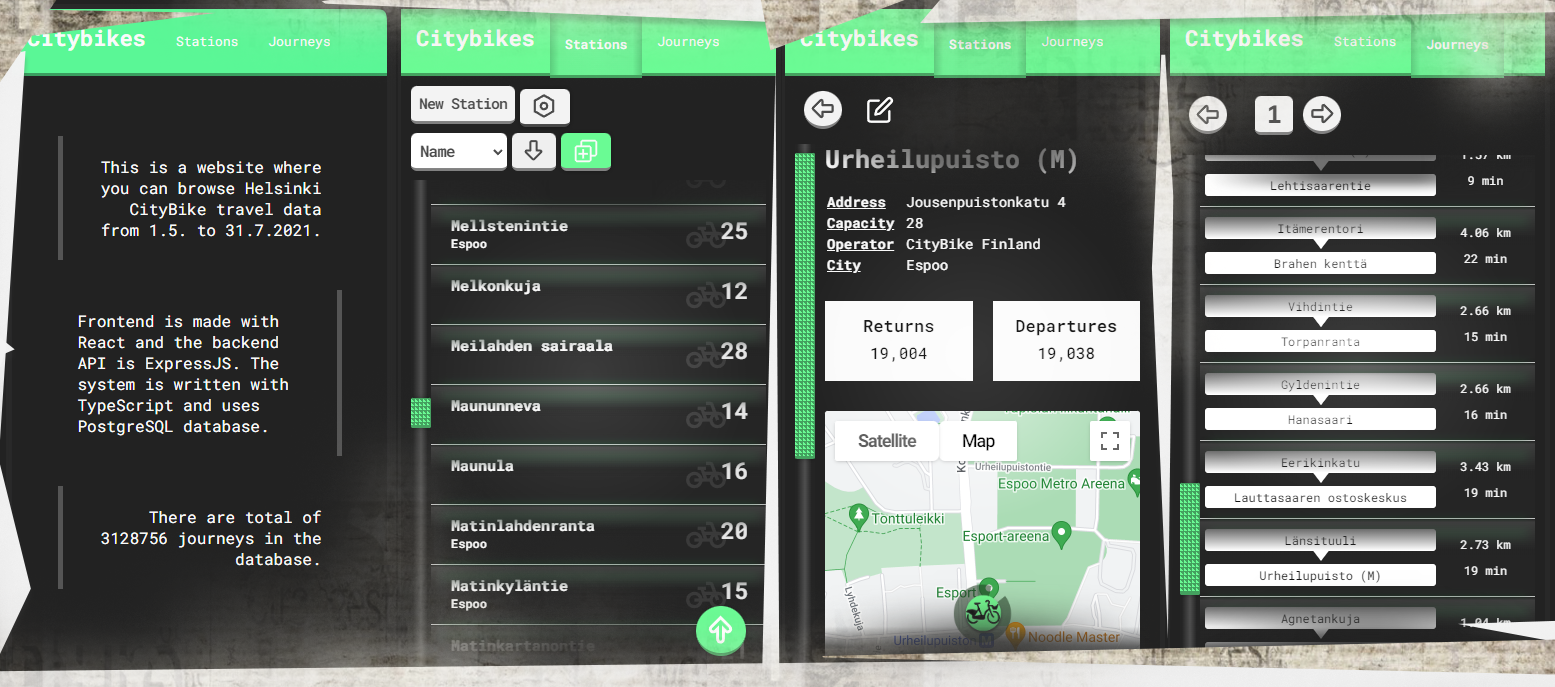
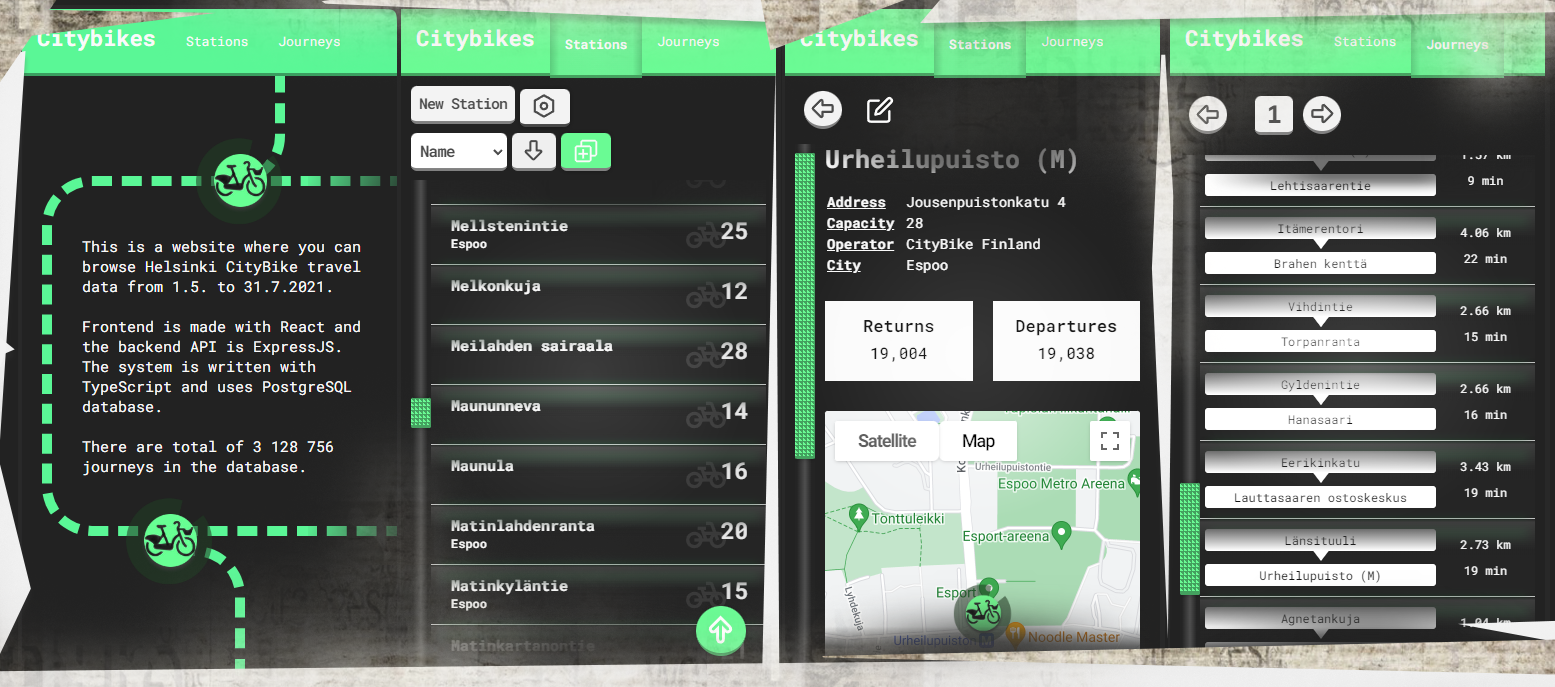
moved landing page to its own component and updated the styling

diff --git a/src/components/LandingPage/LandingPage.scss b/src/components/LandingPage/LandingPage.scss
@@ -1,0 +1,120 @@
+@import "../colors.scss";
+
+.index-page {
+  padding: 0px;
+  position: relative;
+  animation: text-reveal 700ms ease-out;
+}
+
+.index-text {
+  color: $text-color;
+  padding-block: 50px;
+  padding-inline: 30px;
+  text-align: left;
+  width: 100%;
+  border-radius: 50px;
+  @media (max-width: 500px) {
+    font-size: 15px;
+  }
+}
+
+$index-page-border: 10px dashed rgb(90, 247, 150);
+
+.index-text-top {
+  position: relative;
+  width: 40%;
+  border-right: $index-page-border;
+  border-bottom: $index-page-border;
+  border-top-right-radius: 0;
+  border-bottom-left-radius: 0;
+}
+
+.index-text-top::before {
+  content: "";
+  position: absolute;
+  bottom: -20px;
+  right: 25px;
+  height: 30px;
+  width: 100%;
+  background-color: $color-2;
+}
+
+.index-text-middle {
+  transform: translateY(-10px);
+  border-left: $index-page-border;
+  border-bottom: $index-page-border;
+  border-top: $index-page-border;
+  border-bottom-right-radius: 0px;
+  border-top-right-radius: 0px;
+  margin-left: 40px;
+  padding-right: 40px;
+}
+
+.index-text-middle::after,
+.index-text-middle::before {
+  background: rgb(34, 34, 34);
+  background: -moz-linear-gradient(
+    108deg,
+    rgba(34, 34, 34, 0) 0%,
+    rgba(34, 34, 34, 1) 100%
+  );
+  background: -webkit-linear-gradient(
+    108deg,
+    rgba(34, 34, 34, 0) 0%,
+    rgba(34, 34, 34, 1) 100%
+  );
+  background: linear-gradient(
+    108deg,
+    rgba(34, 34, 34, 0) 0%,
+    rgba(34, 34, 34, 1) 100%
+  );
+  filter: progid:DXImageTransform.Microsoft.gradient(startColorstr="#222222",endColorstr="#222222",GradientType=1);
+}
+
+.index-text-middle::before {
+  content: "";
+  position: absolute;
+  top: -25px;
+  right: 0px;
+  height: 40px;
+  width: 30%;
+}
+
+.index-text-middle::after {
+  content: "";
+  position: absolute;
+  bottom: -25px;
+  right: 0px;
+  height: 40px;
+  width: 30%;
+}
+
+.index-text-bottom {
+  position: relative;
+  translate: translateX(-40%) translateY(-40px);
+  width: 0;
+  height: 100%;
+  border-top: $index-page-border;
+  border-right: $index-page-border;
+  border-top-left-radius: 0px;
+  border-bottom-right-radius: 0px;
+}
+
+.frontpage-icon-top {
+  position: absolute;
+  top: 60px;
+  right: -10px;
+  width: 90px;
+  height: 90px;
+  z-index: 1;
+  animation: none;
+}
+
+.frontpage-icon-bottom {
+  position: absolute;
+  top: -60px;
+  left: -50px;
+  width: 90px;
+  height: 90px;
+  animation: none;
+}

diff --git a/src/App.tsx b/src/App.tsx
@@ -2,12 +2,14 @@ import { Routes, Route } from "react-router-dom";
 import { AppContextProvider, useAppContext } from "./AppContext";
 // styles
 import "./App.scss";
+// icons
+import Icon from "./components/Icons/icon.png";
 // components
 import Jourenys from "./components/Journey/Jourenys";
 import NavBar from "./components/NavBar/NavBar";
-import Page from "./components/Page/Page";
 import NoPage from "./components/NoPage/NoPage";
 import Stations from "./components/Stations/Stations";
+import LandingPage from "./components/LandingPage/LandingPage";
 
 function App() {
   return (
@@ -18,7 +20,7 @@ function App() {
         </header>
         <main className="bg-color-2">
           <Routes>
-            <Route index element={<IndexPage />} />
+            <Route index element={<LandingPage />} />
             <Route index path="stations/*" element={<Stations />} />
             <Route path="journeys/*" element={<Jourenys />} />
             <Route path="*" element={<NoPage />} />
@@ -28,38 +30,5 @@ function App() {
     </AppContextProvider>
   );
 }
-
-const IndexPage = () => {
-  const { totalJourneys } = useAppContext();
-  return (
-    <Page classNames="index-page">
-      <p
-        className="index-text"
-        style={{ textAlign: "right", borderLeft: "5px solid rgb(85, 85, 85)" }}
-      >
-        This is a website where you can browse Helsinki CityBike travel data
-        from 1.5. to 31.7.2021.
-      </p>
-      <p
-        className="index-text"
-        style={{ borderRight: "5px solid rgb(85, 85, 85)" }}
-      >
-        Frontend is made with React and the backend API is ExpressJS. The system
-        is written with TypeScript and uses PostgreSQL database.
-      </p>
-      {totalJourneys !== 0 && (
-        <p
-          className="index-text"
-          style={{
-            textAlign: "right",
-            borderLeft: "5px solid rgb(85, 85, 85)",
-          }}
-        >
-          There are total of {totalJourneys} journeys in the database.
-        </p>
-      )}
-    </Page>
-  );
-};
 
 export default App;

diff --git a/src/components/LandingPage/LandingPage.tsx b/src/components/LandingPage/LandingPage.tsx
@@ -1,0 +1,38 @@
+import { useAppContext } from "../../AppContext";
+// styles
+import "./LandingPage.scss";
+// icons
+import Icon from "../Icons/icon.png";
+// components
+import Page from "../Page/Page";
+
+const LandingPage = () => {
+  const { totalJourneys } = useAppContext();
+  return (
+    <Page classNames="index-page">
+      <p className="index-text index-text-top">
+        <img src={Icon} alt="CityBike icon" className="frontpage-icon-top" />
+      </p>
+      <div className="index-text index-text-middle">
+        <p>
+          This is a website where you can browse Helsinki CityBike travel data
+          from 1.5. to 31.7.2021.
+        </p>
+        <br />
+        Frontend is made with React and the backend API is ExpressJS. The system
+        is written with TypeScript and uses PostgreSQL database.
+        {totalJourneys !== 0 && (
+          <p>
+            <br />
+            There are total of {totalJourneys.toLocaleString("fi-FI")} journeys
+            in the database.
+          </p>
+        )}
+      </div>
+      <p className="index-text index-text-bottom">
+        <img src={Icon} alt="CityBike icon" className="frontpage-icon-bottom" />
+      </p>
+    </Page>
+  );
+};
+export default LandingPage;

diff --git a/src/components/Stations/StationRoutes/SingleStation/Map/Map.tsx b/src/components/Stations/StationRoutes/SingleStation/Map/Map.tsx
@@ -3,7 +3,7 @@ import { GoogleMap, MarkerF, useLoadScript } from "@react-google-maps/api";
 // styling
 import "./Map.scss";
 // icons
-import Icon from "./icon.png";
+import Icon from "../../../../Icons/icon.png";
 
 // create .env file in root folder and add REACT_APP_GOOGLE_API_KEY=your_api_key
 // https://developers.google.com/maps/documentation/javascript/get-api-key

diff --git a/src/App.scss b/src/App.scss
@@ -51,22 +51,6 @@ main {
   height: 400px;
 }
 
-.index-page {
-  padding-top: 60px;
-}
-
-.index-text {
-  color: $text-color;
-  padding: 20px;
-  text-align: left;
-  margin-bottom: 30px;
-  @media (max-width: 500px) {
-    padding: 20px;
-    width: 80%;
-  }
-  animation: text-reveal 700ms ease-out;
-}
-
 @keyframes text-reveal {
   from {
     opacity: 0;
